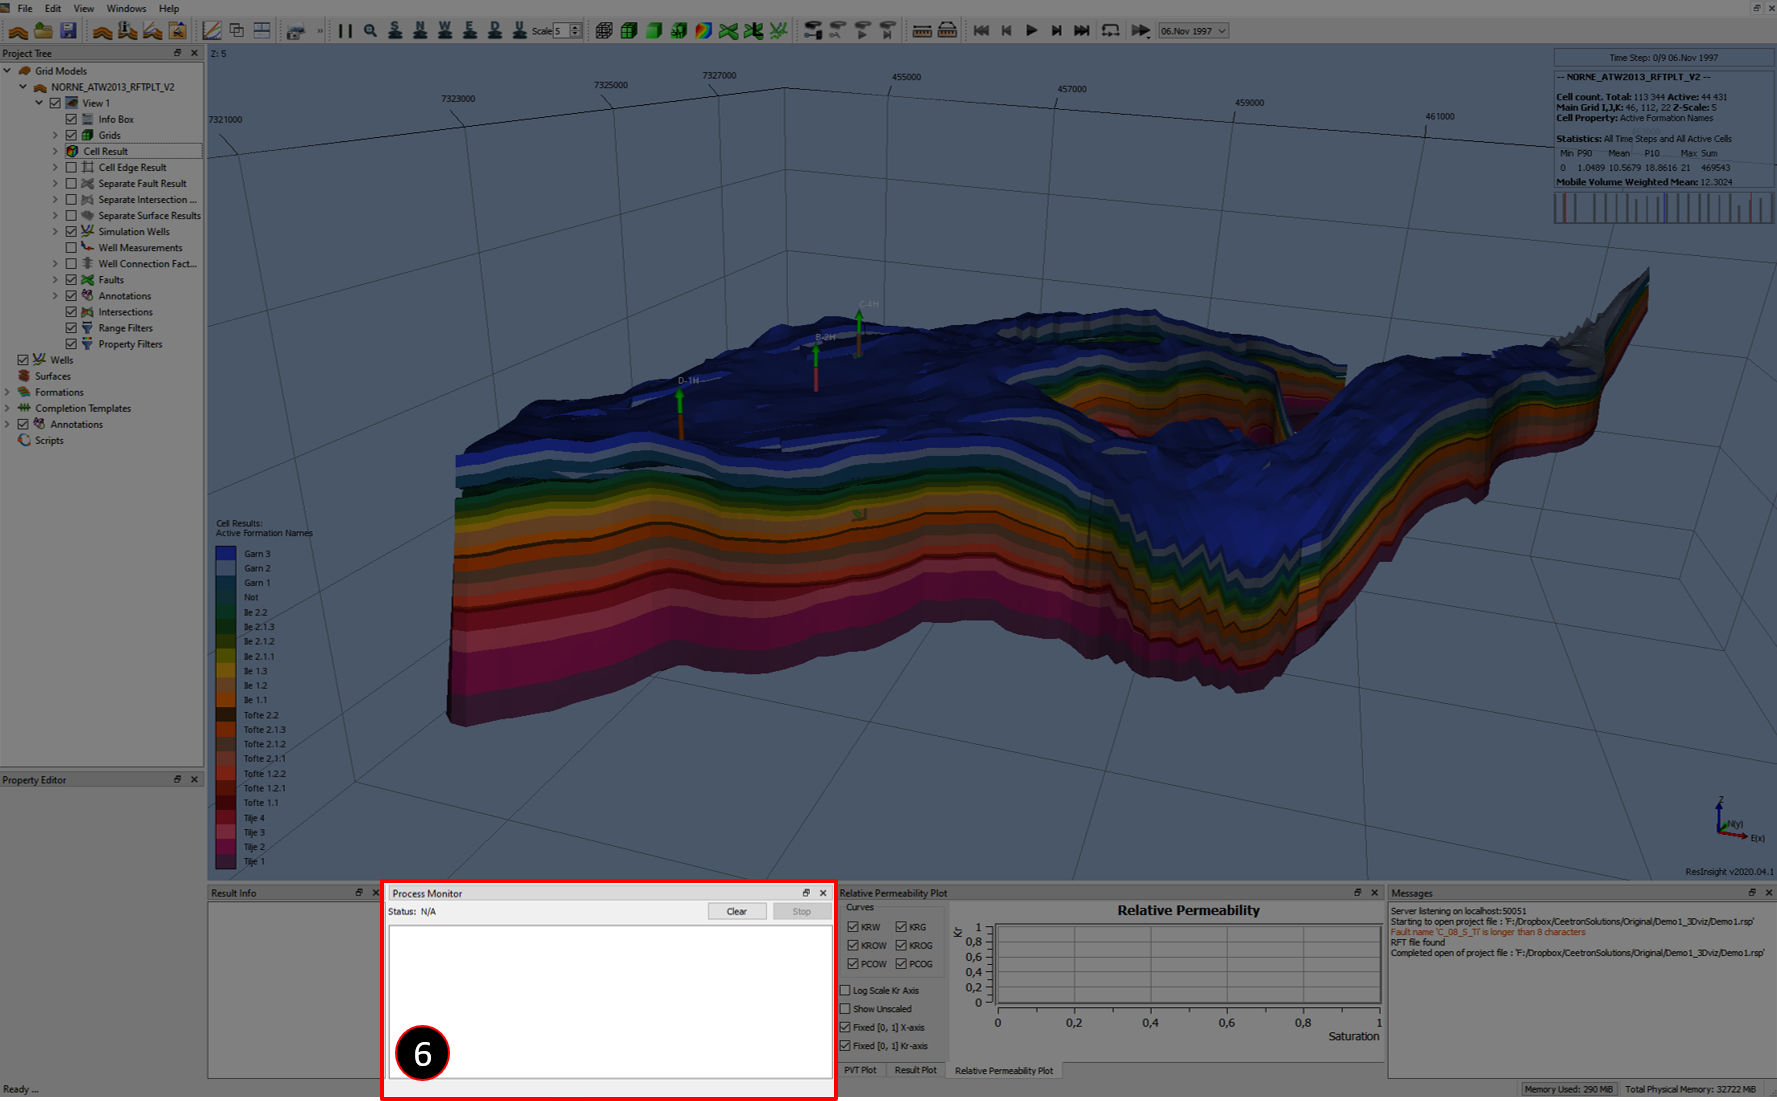
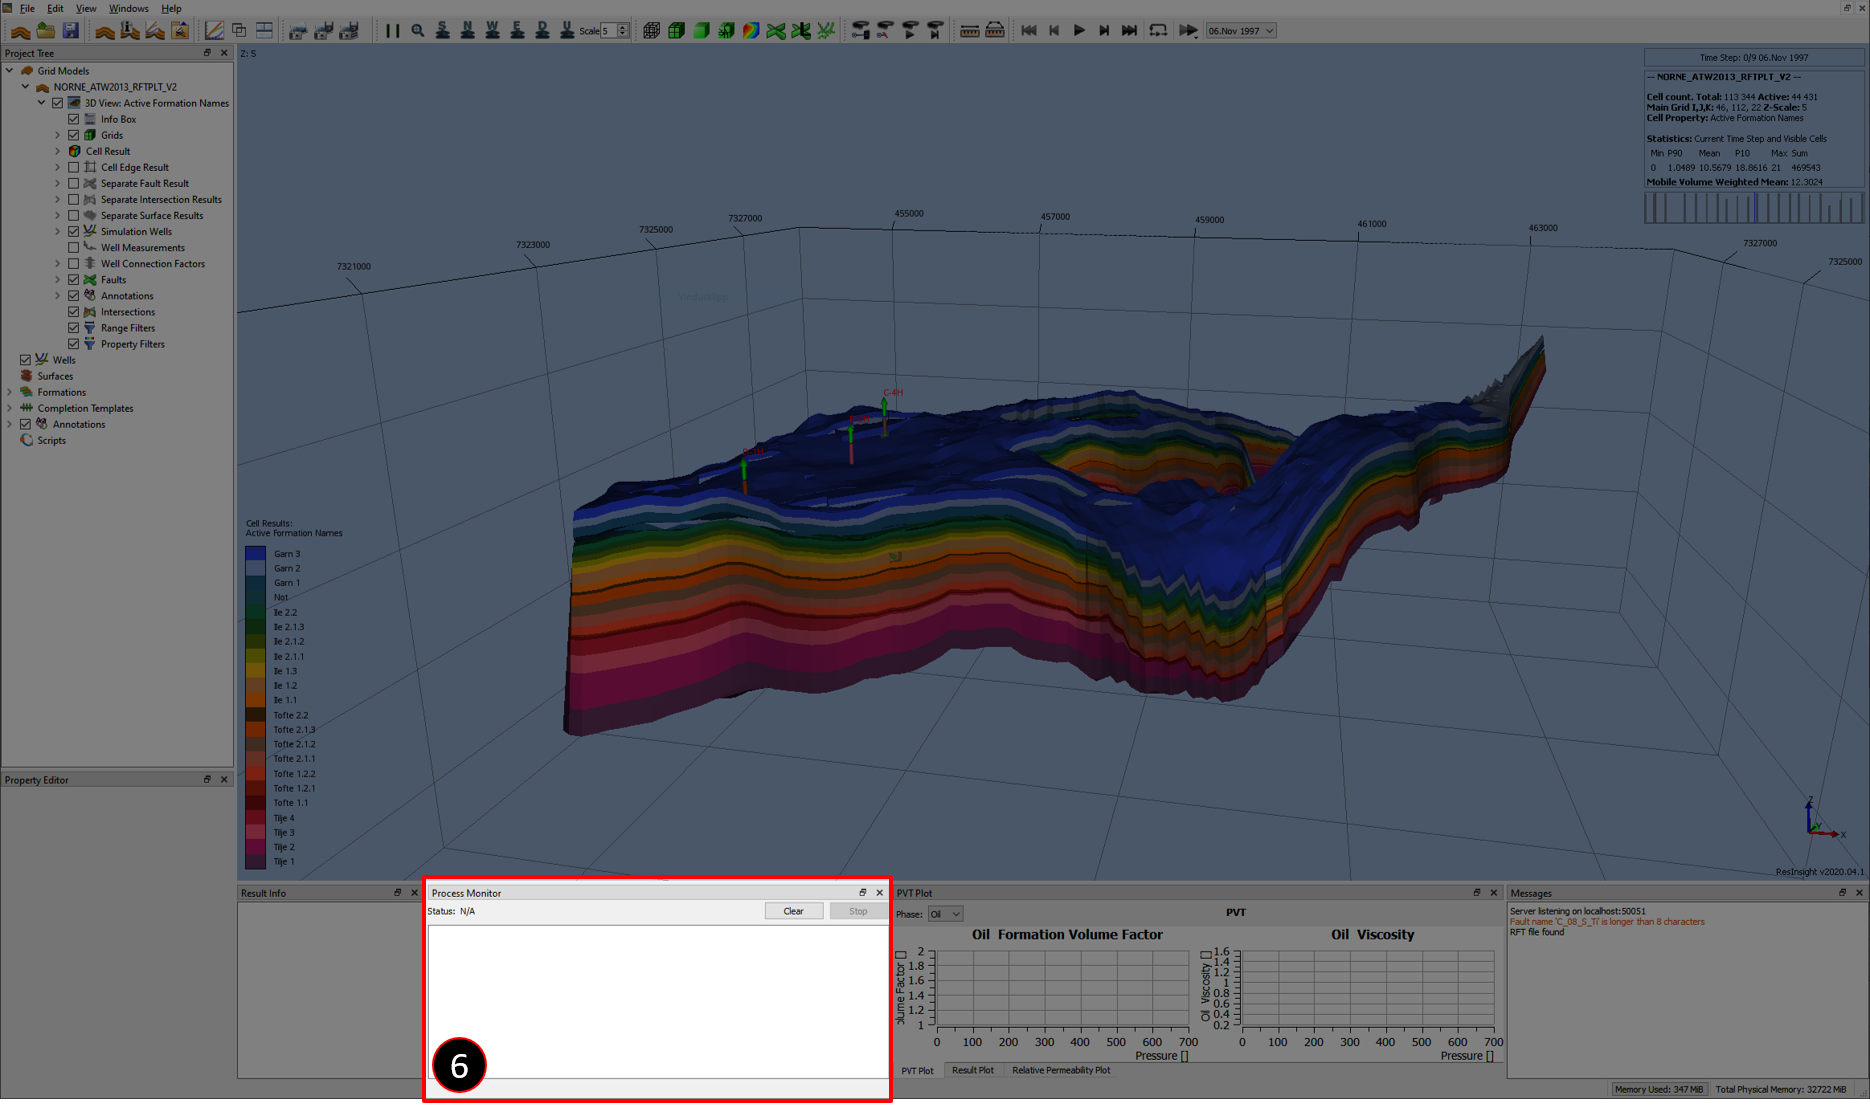
Update to graphical-user-interface

diff --git a/tutorials/graphical-user-interface/graphical-user-interface.md b/tutorials/graphical-user-interface/graphical-user-interface.md
@@ -10,9 +10,9 @@ The ResInsight user interface is made for customization. The sub-windows adapts 
 The standard view of ResInsight as loaded the first time will be similar to the above image. If you want to skip straight forward to one section, please select the relevant link below.
 
 1. [Reservoir View](#reservoir-view)
-2. [Quick access buttons](#quick-access-buttons)
-3. [Project Tree](#project-tree)
-4. [Property Editor](#property-editor)
+2. [Project Tree](#project-tree)
+3. [Property Editor](#property-editor)
+4. [Quick access buttons](#quick-access-buttons)
 5. [Result Info](#result-info)
 6. [Process Monitor](#process-monitor)
 8. [Result Plot](#result-plot)
@@ -24,83 +24,7 @@ The standard view of ResInsight as loaded the first time will be similar to the 
 
 ![Image](./Resources/Pictures/reservoir_view.png)
 
-
-# Quick access buttons
-[Back to overview](#overview)
-
-![Image](./Resources/Pictures/quick_access_bar.png)
-
-
-## Project/File Management buttons
-
-![Image](./Resources/Pictures/project_management.png)
-
-These buttons are used for Loading and Saving projects and Eclipse Files.
-
-## Window Management buttons
-![Image](./Resources/Pictures/window_management.png)
-
-These buttons provides access to the Plot Window, linking different **Views**, and "Tile View" to better organize your visual experience with the reservoir.
-
-## Snapshot Tools
-![Image](./Resources/Pictures/snapshot_tools.png)
-
-These buttons allows for tailoring of the Screen Capture tools. The options are to print the current **View** to your clip-board (Equivalent to Ctrl + C), save your current **View** to a file, and to save all of your **Views** to files.
-
-
-## View (orientation and transformation) buttons
-![Image](./Resources/Pictures/view_buttons.png)
-
-"Parallel View" / "Perspective View" adjusts the view accordingly. "Zoom all" adjusts the visualization to include the entire reservoir. "Look South(/North/West/East/Down/Up)" buttons are helpful for aligning your view with the different axis.  "Scale" allows you to scale the Z-axis.
-
-## Draw Style buttons
-![Image](./Resources/Pictures/draw_style.png)
-
-Gives you access to the different modes of visualizing the reservoir in terms of lighting, mesh, surfaces, faults, and wells. 
-
-"Mesh Only", allows you to visualize the wire-frame of all selected cells. 
-
-The "Mesh and Surface" provides you with the wire-frame of all selected cells in addition to drawing the surfaces of the cells colored according to your currently selected **Cell Result**.
-
-"Surface Only" omits the wire-frame of each cell and displays the surfaces according to the currently selected **Cell Results**.
-
-"Fault Mesh and Surfaces" shows the mesh of faults and the surfaces of all selected cells.
-
-"Enable/Disable Result Lighting" turns on or off the dynamic result lighting.
-
-"Hide Grid Cells" omits all cell surfaces and wire-frames. If any **Faults** or **Wells** are checked in the **Property Tree** only these will be visible.
-
-"Show Fault Labels" draws all the labels of currently selected **Faults** in the **Property Tree**.
-
-"Show Wells" will display all the currently selected active **Simulation Wells** in the **Property Tree**. It will by default display all the cells that each well penetrates, colored in the currently selected **Cell Results**.
-
-## Animation buttons
-
-![Image](./Resources/Pictures/animation.png)
-
-The animation buttons will helps visualize the reservoir chronologically through time, either backwards or forwards. Or at a given report step.
-
-"Skip to Start" sets the current state of the reservoir to the first report step.
-
-"Step Backwards" set the current state of the reservoir to the previous report step.
-
-"Play Backwards" plays the sequence of report steps backwards from the current state.
-
-"Pause" pauses the animation sequence.
-
-"Play Forwards" plays the sequence of report steps forwards from the current state.
-
-"Step Forwards" set the current state of the reservoir to the next report step.
-
-"Skip to End" sets the current state of the reservoir to the last report step.
-
-"Repeat from Start" enables the animation to play in a loop. If played forwards it will start from the first report step every time. If the animation run backwards in time it will start from the last report step.
-
-"Repeat Forward/Backward" loops the reservoir both backwards and forwards in time. It will run from the current state to either the first or last report step, when such a step is reached the direction in time will switch.
-
- "Animation Speed" this slider indicates the interval (time) of which each report step is drawn on the screen. 
-
- "Current Time Step" is a drop-down menu in which one is able select from the report step included in the Eclipse deck.
+For information about the Reservoir View go to https://resinsight.org/3d-main-window/3dviews/
 
 # Project Tree
 [Back to overview](#overview)
@@ -114,13 +38,52 @@ The actions that you take will directly affect the appearance of the [Property E
 
 ## Cell Results
 
+For information about the Cell Results go to https://resinsight.org/3d-main-window/cellresults/
+
 # Property Editor
 [Back to overview](#overview)
 
 ![Image](./Resources/Pictures/property_editor.png)
 
-The Property Editor is one of several ways to interact with the visualization and its properties. The appearance and values can be selected from several text cells or drop-down menus.
+The Property Editor is one of several ways to interact with the visualization and its properties. The appearance and values can be selected from several text cells or drop-down menus in a tree structure.
 
+# Quick access buttons
+[Back to overview](#overview)
+
+![Image](./Resources/Pictures/quick_access_bar.png)
+
+
+## Project/File Management buttons
+
+![Image](./Resources/Pictures/project_management.png)
+
+These buttons are used for managing the project. Either by Loading and Saving project, Eclipse Files, and ensembles.
+
+## Window Management buttons
+![Image](./Resources/Pictures/window_management.png)
+
+These buttons provides access to the Plot Main Window and "Tile View" to better organize your visual experience with the reservoir.
+
+## Snapshot Tools
+![Image](./Resources/Pictures/snapshot_tools.png)
+
+These buttons allows for tailoring of the Screen Capture tools. The options are to print the current **View** to your clip-board (Equivalent to Ctrl + C), save your current **View** to a file, and to save all of your **Views** to files.
+
+## View (orientation and transformation) buttons
+![Image](./Resources/Pictures/view_buttons.png)
+
+"Parallel View" / "Perspective View" adjusts the view accordingly. "Zoom all" adjusts the visualization to include the entire reservoir. "Look South(/North/West/East/Down/Up)" buttons are helpful for aligning your view with the different axis. "Scale" allows you to scale the Z-axis.
+
+## Draw Style buttons
+![Image](./Resources/Pictures/draw_style.png)
+
+Gives you access to the different modes of visualizing the reservoir in terms of lighting, mesh, surfaces, faults, and wells. 
+
+## Animation buttons
+
+![Image](./Resources/Pictures/animation.png)
+
+The animation buttons will helps visualize the reservoir chronologically through time, either backwards or forwards. Selecting the speed of the animation or displaying a given report step.
 
 # Result Info
 [Back to overview](#overview)
@@ -130,8 +93,6 @@ The Property Editor is one of several ways to interact with the visualization an
 The Result Info window will be where several of the results can be obtained. If the [Cell Results](#cell-results) have been set to display pressure, one can click on the reservoir to display the pressure of the selected cell.
 
 When a cell is probed it will usually display the current cell property, Grid, Cell IJK coordinates, Global Cell Index, Intersection Point, and Formation Name if such information is provided.
-
-
 
 # Process Monitor
 [Back to overview](#overview)
@@ -144,6 +105,28 @@ If Octave scripts are being run; the Process Monitor is the sub-frame which will
 [Back to overview](#overview)
 
 ![Image](./Resources/Pictures/result_plot.png)
+
+## PVT plot
+
+![Image](./Resources/Pictures/pvt_plot.png)
+
+Shows the PVT state for the given report step.
+
+## Result plot
+
+![Image](./Resources/Pictures/result_plot_in_depth.png)
+
+Displays the Results for the given [Cell Result](#cell-results) through time.
+
+## Relative Permeability Plot
+
+![Image](./Resources/Pictures/relative_permeability.png)
+
+Displays the relative permeability.
+
+## References:
+
+For more information go to https://resinsight.org/3d-main-window/resultinspection/
 
 # Messages
 [Back to overview](#overview)

diff --git a/tutorials/grid-visualization/grid-visualization.md b/tutorials/grid-visualization/grid-visualization.md
@@ -37,3 +37,5 @@ With the two views active you could click the "Tile Window" in the [Window manag
 ![Image](Resources/Pictures/link_view.png)
 
 In additionally, a new menu will appear in the Project Tree that allows you to attach, detach and terminate links.
+
+For more information go to: https://resinsight.org/3d-main-window/linkedviews/
